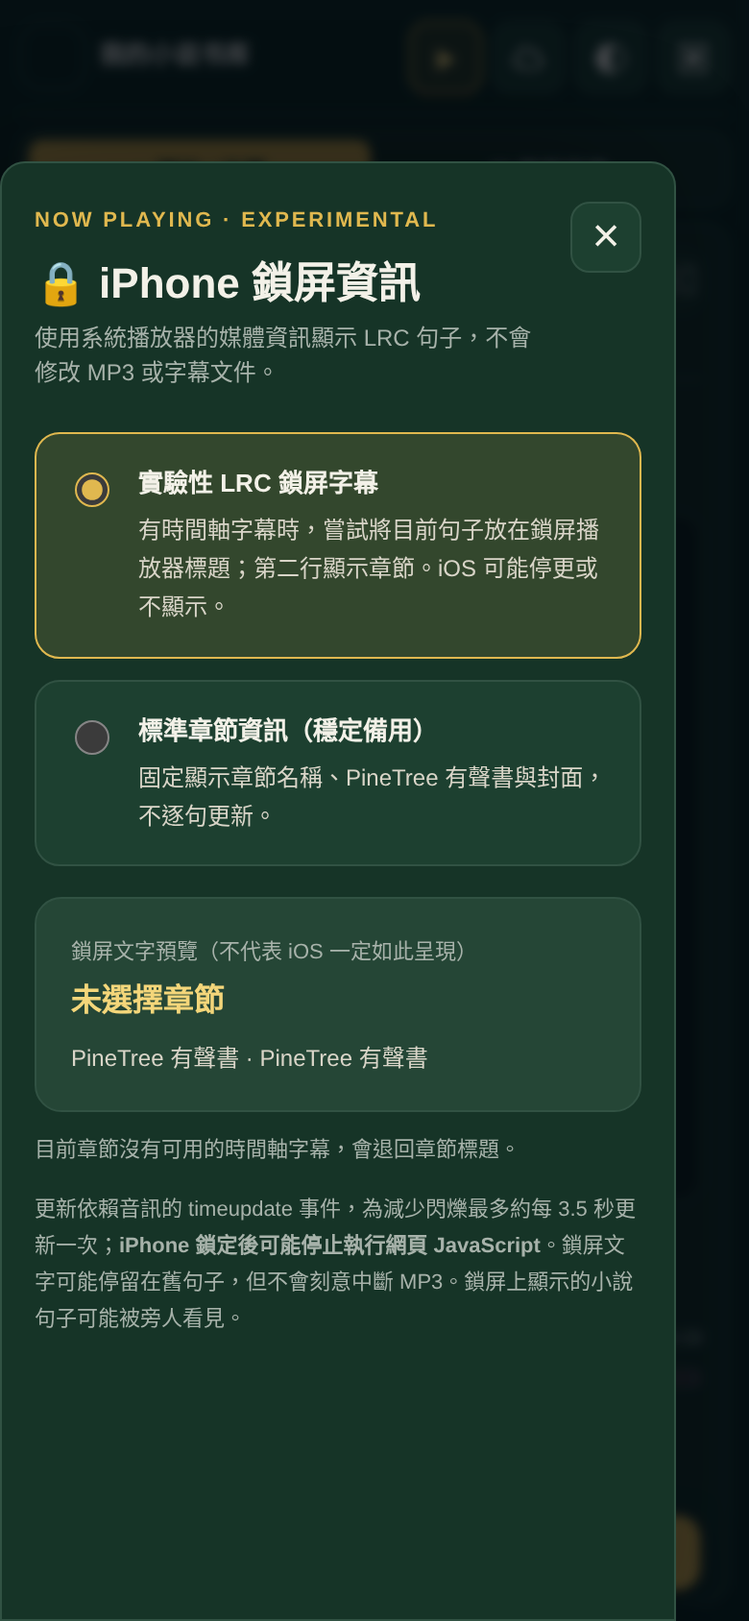
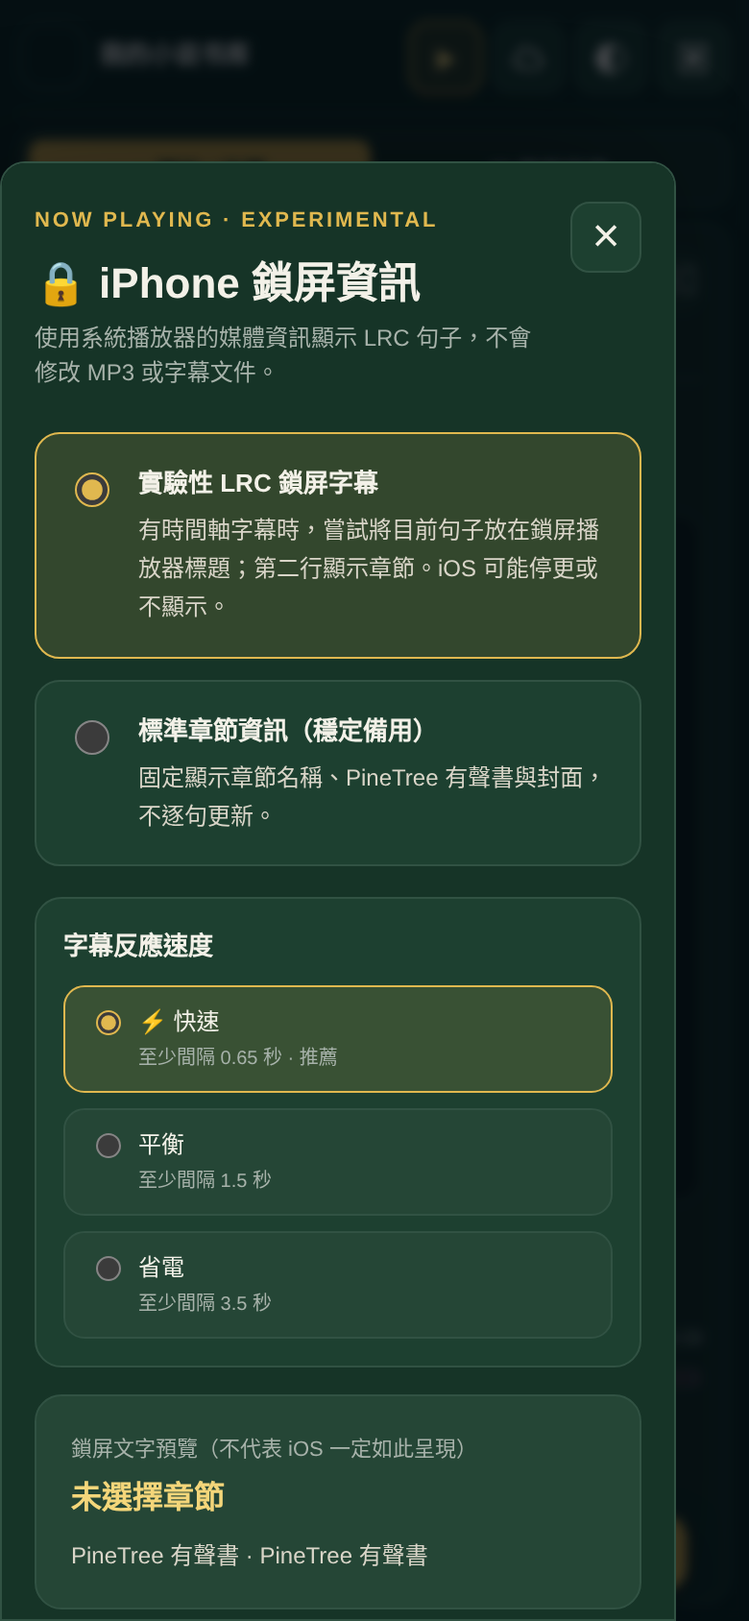
Add files via upload

diff --git a/app.js b/app.js
@@ -1,4 +1,4 @@
-/* PineTree Lyra 3.7 · experimental lock-screen LRC metadata, sleep timer, bookmarks, eye-care themes.
+/* PineTree Lyra 3.7.2 · centered lyrics follow mode + faster experimental lock-screen LRC metadata, sleep timer, bookmarks, eye-care themes.
  * Works with imported MP3 + timestamped LRC files only; no server uploads.
  * Keeps Lyra 1.x IndexedDB data by upgrading the SAME database to v2.
  */
@@ -32,8 +32,10 @@ const state = {
   focusMode:localStorage.getItem('pinetree-focus-mode')==='1',
   keepAwake:localStorage.getItem('pinetree-keep-awake')==='1',wakeLock:null,
   lineSpacing:bounded(storedNumber('pinetree-line-spacing',1.85),1.4,2.6,1.85),
+  lyricsCentered:localStorage.getItem('pinetree-lyrics-centered-v372')!=='0',
   sleepDeadline:0,sleepEndChapter:false,sleepInterval:null,cleanupRunning:false,cleanupPreviewToken:0,
   lockScreenMode:localStorage.getItem('pinetree-lockscreen-mode-v37')==='standard'?'standard':'lyrics',
+  lockScreenSpeed:['fast','balanced','quiet'].includes(localStorage.getItem('pinetree-lockscreen-speed-v371'))?localStorage.getItem('pinetree-lockscreen-speed-v371'):'fast',
   lockScreenMetaKey:'',lockScreenLastAt:0,lockScreenLastText:'',lockScreenMediaError:false,
 
 };
@@ -45,7 +47,7 @@ const DELETED_BOOKS_KEY='pinetree-deleted-books-v33';
 const IMPORT_CHECKPOINT_KEY='pinetree-import-checkpoint-v33';
 const SETTINGS_UPDATED_KEY='pinetree-settings-updated-v33';
 const BOOKMARKS_KEY='pinetree-bookmarks-v36';
-const RELEASE_SEEN_KEY='pinetree-release-seen-v37';
+const RELEASE_SEEN_KEY='pinetree-release-seen-v372';
 function readBookmarks(){try{return (JSON.parse(localStorage.getItem(BOOKMARKS_KEY)||'[]')||[]).filter(x=>x&&typeof x.id==='string').slice(0,2000);}catch{return [];}}
 function writeBookmarks(items){try{localStorage.setItem(BOOKMARKS_KEY,JSON.stringify(items.slice(0,2000)));return true;}catch(error){console.warn('書籤儲存失敗',error);toast('書籤儲存失敗：本機空間可能不足');return false;}}
 
@@ -79,6 +81,8 @@ function updateBookBrand(){
   $('brandTitle').title=name;
   document.title=`${name} · PineTree 有聲書`;
 }
+function updateLyricsCenterButton(){const btn=$('lyricsCenterToggle');if(!btn)return;btn.setAttribute('aria-pressed',String(state.lyricsCentered));btn.textContent=state.lyricsCentered?'◎ 置中':'≋ 自由';btn.title=state.lyricsCentered?'播放時自動將當前字幕置中':'目前為自由滾動，不會自動拉回正中央';}
+function setLyricsCentered(value,persist=true){state.lyricsCentered=!!value;updateLyricsCenterButton();if(persist){localStorage.setItem('pinetree-lyrics-centered-v372',state.lyricsCentered?'1':'0');markSettingsChanged();}state.userScrollUntil=0;syncLyricsViewportPadding();requestAnimationFrame(()=>updateLyrics(true));}
 function setLyricsMax(value, persist=true){
   state.lyricsMax=!!value;
   document.body.classList.toggle('lyrics-maximized',state.lyricsMax);
@@ -225,7 +229,7 @@ function closeImportUI(){if(state.importJob?.running)return;closeDialog('importD
 function cancelImport(){const job=state.importJob;if(!job||!job.running)return;job.cancelled=true;$('cancelImport').disabled=true;reportImportStatus(job,'正在安全停止…','完成當前檔案寫入後停止，已成功匯入的章節不會消失。');}
 function importReportText(job){
   return [
-    `PineTree v3.6 匯入報告 · ${new Date().toLocaleString()}`,
+    `PineTree v3.7.2 匯入報告 · ${new Date().toLocaleString()}`,
     `小說：${bookTitle(job.book)} · 狀態：${job.cancelled?'使用者取消':'完成'}`,
     `檔案：${job.fileCount} · 章節組：${job.total}`,
     `新增：${job.added}；更新：${job.updated}；已存在略過：${job.skipped}；缺少 MP3：${job.orphans}；缺少 LRC：${job.missingLrc}；重複：${job.duplicates}；跳過 Read：${job.excludedRead}；失敗：${job.failed}`,
@@ -350,9 +354,10 @@ async function deleteBook(){const book=state.selectedBook;if(!book)return;const 
     toast(`已删除《${displayName}》，其他小说保持不变`);}catch(error){console.error(error);toast('删除失败，请重试');}}
 function parseLRC(source){const entries=[];let offset=0;for(const raw of(source||'').replace(/^\uFEFF/,'').split(/\r?\n/)){const shift=raw.match(/^\s*\[offset\s*:\s*([+-]?\d+)\s*\]/i);if(shift){offset=Number(shift[1])/1000;continue;}const stamps=[...raw.matchAll(/\[(?:(\d+):)?(\d{1,3}):(\d{2})(?:[.:](\d{1,3}))?\]/g)];if(!stamps.length)continue;const words=raw.replace(/\[(?:(\d+):)?(\d{1,3}):(\d{2})(?:[.:](\d{1,3}))?\]/g,'').trim();if(!words)continue;for(const x of stamps){const hours=Number(x[1]||0),mins=Number(x[2]),secs=Number(x[3]);if(secs>=60||(x[1]&&mins>=60))continue;const fraction=Number(`0.${x[4]||'0'}`);entries.push({time:Math.max(0,hours*3600+mins*60+secs+fraction+offset),text:words});}}entries.sort((a,b)=>a.time-b.time);return entries;}
 function displayPlaceholder(title,note){const el=$('lyricsWindow');el.replaceChildren();const box=document.createElement('div');box.className='lyrics-placeholder';const symbol=document.createElement('span');symbol.textContent='“';const p=document.createElement('p');p.textContent=title;const small=document.createElement('small');small.textContent=note;box.append(symbol,p,small);el.append(box);}
-function displayLyrics(lrc){state.lines=parseLRC(lrc);state.lineIndex=-1;const container=$('lyricsWindow');container.replaceChildren();if(!state.lines.length){$('lrcState').textContent='· 无时间轴';displayPlaceholder('还没有同步文字','导入同名 .lrc 文件即可同步显示');return;}$('lrcState').textContent=`· ${state.lines.length} 行`;const frag=document.createDocumentFragment();state.lines.forEach((line,i)=>{const element=document.createElement('div');element.className='lyric-line';element.dataset.index=i;element.textContent=line.text;element.title=`${formatTime(line.time)} · 点击跳转`;frag.append(element);});container.append(frag);container.scrollTop=0;updateLyrics(true);}
+function syncLyricsViewportPadding(){const win=$('lyricsWindow');if(!win)return;const pad=state.lyricsCentered?Math.max(32,Math.round(win.clientHeight*0.34)):24;win.style.setProperty('--lyrics-vertical-pad',pad+'px');}
+function displayLyrics(lrc){state.lines=parseLRC(lrc);state.lineIndex=-1;const container=$('lyricsWindow');container.replaceChildren();if(!state.lines.length){$('lrcState').textContent='· 无时间轴';displayPlaceholder('还没有同步文字','导入同名 .lrc 文件即可同步显示');syncLyricsViewportPadding();return;}$('lrcState').textContent=`· ${state.lines.length} 行`;const frag=document.createDocumentFragment();state.lines.forEach((line,i)=>{const element=document.createElement('div');element.className='lyric-line';element.dataset.index=i;element.textContent=line.text;element.title=`${formatTime(line.time)} · 点击跳转`;frag.append(element);});container.append(frag);syncLyricsViewportPadding();container.scrollTop=0;updateLyrics(true);}
 function lyricIndex(time){let low=0,high=state.lines.length-1,result=-1;while(low<=high){const mid=(low+high)>>1;if(state.lines[mid].time<=time){result=mid;low=mid+1;}else high=mid-1;}return result;}
-function updateLyrics(force=false){if(!state.lines.length)return;const idx=lyricIndex((Number(audio.currentTime)||0)-state.delay);if(idx===state.lineIndex&&!force)return;const lines=$('lyricsWindow').children;if(state.lineIndex>=0&&lines[state.lineIndex])lines[state.lineIndex].classList.remove('active');state.lineIndex=idx;if(idx>=0&&lines[idx]){const el=lines[idx];el.classList.add('active');if(Date.now()>=state.userScrollUntil){const win=$('lyricsWindow');win.scrollTo({top:Math.max(0,el.offsetTop-win.offsetTop-win.clientHeight*.42),behavior:force?'instant':'smooth'});}}}
+function updateLyrics(force=false){if(!state.lines.length)return;const idx=lyricIndex((Number(audio.currentTime)||0)-state.delay);if(idx===state.lineIndex&&!force)return;const lines=$('lyricsWindow').querySelectorAll('.lyric-line');if(state.lineIndex>=0&&lines[state.lineIndex])lines[state.lineIndex].classList.remove('active');state.lineIndex=idx;if(idx>=0&&lines[idx]){const el=lines[idx];el.classList.add('active');if(Date.now()>=state.userScrollUntil){const win=$('lyricsWindow');if(state.lyricsCentered){const centerTop=Math.max(0,el.offsetTop-win.offsetTop-(win.clientHeight-el.offsetHeight)/2);win.scrollTo({top:centerTop,behavior:force?'instant':'smooth'});}else{win.scrollTo({top:Math.max(0,el.offsetTop-win.offsetTop-win.clientHeight*.42),behavior:force?'instant':'smooth'});}}}}
 async function saveProgress(ended=false){if(!state.db||!state.current||state.suppressProgressWrites||!state.fileUrl||audio.readyState<1||!Number.isFinite(audio.duration)||audio.duration<=0)return;const id=state.current.id;const done=ended||audio.ended;const record={id,position:done?(Number(audio.duration)||0):(Number(audio.currentTime)||0),ended:done,updatedAt:Date.now()};state.progresses.set(id,record);try{await putStore('progress',record);}catch(error){console.warn('进度保存失败：',error);}}
 function releaseAudio(){audio.pause();audio.removeAttribute('src');audio.load();if(state.fileUrl)URL.revokeObjectURL(state.fileUrl);state.fileUrl=null;}
 function updateStoryArt(){const cover=$('currentCover'),fallback=$('storyArtFallback');const book=getBook(state.current?.book||state.selectedBook);const title=book?bookTitle(book.id):'选择一本小说';$('storyBookName').textContent=title;$('storyBookName').title=title;$('storyBookName').classList.toggle('long-title',title.length>15);const url=coverUrl(book);if(url){cover.src=url;cover.hidden=false;fallback.hidden=true;}else{cover.hidden=true;cover.removeAttribute('src');fallback.hidden=false;}}
@@ -360,7 +365,10 @@ function updateStoryArt(){const cover=$('currentCover'),fallback=$('storyArtFall
 // iOS may throttle/suspend background JavaScript, timeupdate and metadata rendering.
 // No background polling: react only to actual audio events, and throttle metadata changes.
 const LOCKSCREEN_MODE_KEY='pinetree-lockscreen-mode-v37';
-const LOCKSCREEN_MIN_INTERVAL_MS=3500;
+// Only update when the LRC sentence actually changes; speed caps bursts of
+// exceptionally short lines. iOS controls final lock-screen paint latency.
+const LOCKSCREEN_SPEED_KEY='pinetree-lockscreen-speed-v371';
+const LOCKSCREEN_INTERVALS=Object.freeze({fast:650,balanced:1500,quiet:3500});
 function safeLyricTitle(text){
   // Prevent very long/wrapped metadata and control characters in the lock screen.
   return Array.from(String(text||'').replace(/[\u0000-\u001F\u007F]+/g,' ').replace(/\s+/g,' ').trim()).slice(0,64).join('');
@@ -394,6 +402,7 @@ function refreshLockScreenControls(){
       ?info.active?'目前有字幕可嘗試顯示；鎖屏後是否逐句更新取決於 iOS。':'目前章節沒有可用的時間軸字幕，會退回章節標題。'
       :'目前使用標準模式：顯示章節標題與 PineTree 名稱。';
   for(const input of document.querySelectorAll('input[name="lockScreenMode"]'))input.checked=input.value===state.lockScreenMode;
+  for(const input of document.querySelectorAll('input[name="lockScreenSpeed"]'))input.checked=input.value===state.lockScreenSpeed;
 }
 function setLockScreenMode(mode,{persist=true}={}){
   if(mode!=='standard'&&mode!=='lyrics')return;
@@ -405,13 +414,22 @@ function setLockScreenMode(mode,{persist=true}={}){
   refreshLockScreenControls();
   updateMediaSession(true);
 }
+function setLockScreenSpeed(speed,{persist=true}={}){
+  if(!Object.prototype.hasOwnProperty.call(LOCKSCREEN_INTERVALS,speed))return;
+  state.lockScreenSpeed=speed;
+  if(persist){localStorage.setItem(LOCKSCREEN_SPEED_KEY,speed);markSettingsChanged();}
+  refreshLockScreenControls();
+  // Do not force re-draw the same line, but allow the next changed line promptly.
+  state.lockScreenLastAt=0;
+  updateMediaSession();
+}
 function updateMediaSession(force=false){
   if(!state.current||!('mediaSession' in navigator)||typeof MediaMetadata!=='function'||state.lockScreenMediaError)return;
   const info=lockScreenInfo();
   if(info.key===state.lockScreenMetaKey&&!force)return;
   const now=Date.now();
   // A metadata change can make iOS redraw Now Playing; avoid flashing every few hundred ms.
-  if(!force && state.lockScreenMetaKey && now-state.lockScreenLastAt<LOCKSCREEN_MIN_INTERVAL_MS)return;
+  if(!force && state.lockScreenMetaKey && now-state.lockScreenLastAt<LOCKSCREEN_INTERVALS[state.lockScreenSpeed])return;
   const book=getBook(state.current.book),url=coverUrl(book);
   try{
     navigator.mediaSession.metadata=new MediaMetadata({
@@ -572,7 +590,7 @@ async function makeSyncSnapshot(){
     selectedBook:state.selectedBook||'',
     settings:{speed:state.speed,fontSize:state.fontSize,delay:state.delay,
       bg:state.bgColor,panel:state.panelColor,accent:state.accentColor,
-      linked:state.panelLinked,lyricsMax:state.lyricsMax,focusMode:state.focusMode,lineSpacing:state.lineSpacing,keepAwake:state.keepAwake,lockScreenMode:state.lockScreenMode},
+      linked:state.panelLinked,lyricsMax:state.lyricsMax,lyricsCentered:state.lyricsCentered,focusMode:state.focusMode,lineSpacing:state.lineSpacing,keepAwake:state.keepAwake,lockScreenMode:state.lockScreenMode,lockScreenSpeed:state.lockScreenSpeed},
     note:'僅書庫名稱、封面、播放進度及介面設定；不包含 MP3/LRC 音訊檔',
     skippedLargeCovers:skipped};
 }
@@ -668,10 +686,12 @@ async function importICloudState(file){
         if(Number.isFinite(Number(cfg.delay))){state.delay=bounded(Number(cfg.delay),-20,20,0);localStorage.setItem('lyra-delay',state.delay);$('offsetLabel').textContent=`${state.delay>0?'+':''}${state.delay.toFixed(1)}s`;}
         if([cfg.bg,cfg.panel,cfg.accent].every(isHex))setTheme(cfg.bg,cfg.panel,cfg.accent,{linked:!!cfg.linked});
         if(typeof cfg.lyricsMax==='boolean')setLyricsMax(cfg.lyricsMax,false);
+        if(typeof cfg.lyricsCentered==='boolean')setLyricsCentered(cfg.lyricsCentered,false);
         if(Number.isFinite(Number(cfg.lineSpacing)))setLineSpacing(cfg.lineSpacing,false);
         if(typeof cfg.focusMode==='boolean')setFocusMode(cfg.focusMode,false);
         if(typeof cfg.keepAwake==='boolean')setKeepAwake(cfg.keepAwake,false);
         if(cfg.lockScreenMode==='standard'||cfg.lockScreenMode==='lyrics')setLockScreenMode(cfg.lockScreenMode,{persist:false});
+        if(['fast','balanced','quiet'].includes(cfg.lockScreenSpeed))setLockScreenSpeed(cfg.lockScreenSpeed,{persist:false});
         if(snapshot.settingsUpdatedAt)localStorage.setItem(SETTINGS_UPDATED_KEY,String(snapshot.settingsUpdatedAt));
       }
       const prefer=typeof snapshot.selectedBook==='string'&&snapshot.books.some(b=>b.id===snapshot.selectedBook)?snapshot.selectedBook:state.selectedBook;
@@ -696,7 +716,7 @@ async function importICloudState(file){
 
 
 // ------------------------------
-// PineTree v3.6: calm listening and local storage tools.
+// PineTree v3.7.2: calm listening, centered lyrics and local storage tools.
 // Offline data remains under the same IndexedDB name; do not clear on upgrades.
 // ------------------------------
 function setLineSpacing(value,mark=true){
@@ -868,6 +888,7 @@ function setupEvents(){
   $('lockScreenOpen').addEventListener('click',()=>{refreshLockScreenControls();openDialog('lockScreenDialog');});
   $('lockScreenClose').addEventListener('click',()=>closeDialog('lockScreenDialog'));
   for(const input of document.querySelectorAll('input[name="lockScreenMode"]'))input.addEventListener('change',event=>setLockScreenMode(event.target.value));
+  for(const input of document.querySelectorAll('input[name="lockScreenSpeed"]'))input.addEventListener('change',event=>setLockScreenSpeed(event.target.value));
   $('sleepClose').addEventListener('click',()=>closeDialog('sleepDialog'));
   for(const b of document.querySelectorAll('[data-sleep]'))b.addEventListener('click',()=>chooseSleepTimer(b.dataset.sleep));
   $('bookmarkAdd').addEventListener('click',addBookmark);
@@ -909,6 +930,7 @@ function setupEvents(){
   $('downloadImportReport').addEventListener('click',downloadImportReport);
   $('coverBtn').addEventListener('click',()=>$('coverPicker').click());
   $('renameBookBtn').addEventListener('click',renameBook);
+  $('lyricsCenterToggle').addEventListener('click',()=>setLyricsCentered(!state.lyricsCentered));
   $('toggleLyricsMax').addEventListener('click',()=>setLyricsMax(!state.lyricsMax));
   document.addEventListener('keydown',event=>{if(event.key==='Escape'&&state.lyricsMax)setLyricsMax(false);});
   $('importDialog').addEventListener('cancel',event=>{if(state.importJob?.running){event.preventDefault();cancelImport();}});
@@ -942,14 +964,15 @@ function setupEvents(){
   audio.addEventListener('ended',async()=>{if(!state.current)return;await saveProgress(true);if(state.sleepEndChapter){stopSleepTimer('本章播放完成，睡眠定時已停止');return;}const list=sortedBookTracks(state.current.book);const i=list.findIndex(x=>x.id===state.current.id);if(i>=0&&i<list.length-1)await loadTrack(list[i+1],{autoplay:true});else{$('playStatus').textContent='本书已播放完毕';drawChapterList();}});
   audio.addEventListener('error',()=>{if(state.current&&audio.src){$('playStatus').textContent='音频无法播放';toast('MP3 无法播放，请确认音频格式有效');}});
   window.addEventListener('online',updateNetwork);window.addEventListener('offline',updateNetwork);
-  document.addEventListener('visibilitychange',()=>{if(document.hidden){updateMediaSession(true);saveProgress();releaseWakeLock();}else{checkSleepTimer();requestWakeLock();updateMediaSession();refreshLockScreenControls();}});window.addEventListener('pagehide',()=>saveProgress());
+  document.addEventListener('visibilitychange',()=>{if(document.hidden){updateMediaSession(true);saveProgress();releaseWakeLock();}else{checkSleepTimer();requestWakeLock();updateMediaSession();refreshLockScreenControls();syncLyricsViewportPadding();updateLyrics(true);}});window.addEventListener('pagehide',()=>saveProgress());
+  window.addEventListener('resize',()=>{syncLyricsViewportPadding();updateLyrics(true);});
 }
 
 async function registerSW(){if(!('serviceWorker'in navigator)||!isSecureContext)return;try{navigator.serviceWorker.addEventListener('controllerchange',()=>toast('PineTree 版本已更新；關閉再開啟 App 可使用最新版',5000));await navigator.serviceWorker.register('./sw.js',{scope:'./'});}catch(error){console.warn('离线缓存不可用：',error);}}
 async function start(){
   setupEvents();setupMediaSession();updateNetwork();
   setMobileTab(localStorage.getItem('lyra-mobile-tab')==='chapters'?'chapters':'player');
-  setLineSpacing(state.lineSpacing,false);setKeepAwake(state.keepAwake,false);setFocusMode(state.focusMode,false);updateSleepUI();
+  setLineSpacing(state.lineSpacing,false);setKeepAwake(state.keepAwake,false);setFocusMode(state.focusMode,false);setLyricsCentered(state.lyricsCentered,false);updateSleepUI();
   setSpeed(state.speed);
   setLockScreenMode(state.lockScreenMode,{persist:false});
   migrateForestThemeOnce();
@@ -964,7 +987,7 @@ async function start(){
   registerSW();
   try{
     state.db=await openDatabase();await migrateLegacyBooks();await refreshLibrary();
-    if(localStorage.getItem(RELEASE_SEEN_KEY)!=='1'){toast('PineTree 已更新至 v3.7 · 實驗性鎖屏字幕可在播放區設定',6500);localStorage.setItem(RELEASE_SEEN_KEY,'1');}
+    if(localStorage.getItem(RELEASE_SEEN_KEY)!=='1'){toast('PineTree 已更新至 v3.7.2 · 播放字幕自動置中已加入',6500);localStorage.setItem(RELEASE_SEEN_KEY,'1');}
     const interrupted=localStorage.getItem(IMPORT_CHECKPOINT_KEY);
     if(interrupted){try{const p=JSON.parse(interrupted);toast(`上次匯入可能中斷（${p.done||0}/${p.total||'?'} 組）；重新選相同文件可接續並略過已有章節`,8000);}catch{}localStorage.removeItem(IMPORT_CHECKPOINT_KEY);}
     const last=state.tracks.find(x=>x.id===localStorage.getItem('lyra-last-id'));

diff --git a/styles.css b/styles.css
@@ -29,7 +29,7 @@ button,select,input[type=search],input[type=text]{-webkit-tap-highlight-color:tr
 .reader{display:flex;flex-direction:column;padding:20px clamp(16px,2.2vw,35px) 17px;gap:0}
 .now-playing{display:flex;justify-content:space-between;align-items:flex-start;gap:16px;flex:0 0 auto;padding-bottom:13px}.now-playing-text{min-width:0;flex:1}.now-kicker{font-size:11px;display:flex;align-items:center;gap:8px;color:var(--accent);font-weight:750;letter-spacing:.02em}.now-kicker>span:last-child{overflow:hidden;white-space:nowrap;text-overflow:ellipsis}.now-playing h1{margin:7px 0 6px;font-size:clamp(17px,1.55vw,23px);line-height:1.3;overflow-wrap:anywhere}.now-playing p{margin:0;font-size:11px;color:var(--muted)}.now-playing-actions{display:flex;gap:8px;align-items:flex-start;flex:0 0 auto}.story-art{width:62px;height:71px;border-radius:9px;overflow:hidden;background:var(--panel-alt);display:grid;place-items:center;border:1px solid var(--border);position:relative}.story-art img{width:100%;height:100%;object-fit:cover}.story-fallback{display:grid;place-items:center;position:absolute;inset:0;padding:4px}.story-fallback span{font-size:12px;word-break:break-all;line-height:1.28;color:var(--accent);font-weight:800;max-height:90%;overflow:hidden;text-align:center}.story-fallback[hidden],.story-art img[hidden]{display:none!important}.tiny-action{min-height:32px;min-width:32px;padding:6px 9px;font-size:12px;white-space:nowrap}.now-playing-actions .tiny-action{width:33px;height:33px;font-size:19px;padding:0}.mobile-only{display:none}
 .lyrics-toolbar{display:flex;align-items:center;justify-content:space-between;gap:10px;flex-wrap:wrap;border-top:1px solid var(--border);padding-top:12px;margin-bottom:10px;flex:0 0 auto}.lyrics-heading{display:flex;align-items:center;gap:6px;font-size:13px}.lyrics-heading small{font-size:11px;color:var(--muted);font-weight:400}.lyrics-tools{display:flex;align-items:center;gap:5px}.offset-label{display:inline-block;min-width:36px;text-align:center;color:var(--accent);font-size:11px}.full-lyrics{border-color:var(--accent);color:var(--accent);font-weight:750;padding:7px 11px}
-.lyrics-window{flex:1;min-height:0;overflow:auto;overscroll-behavior:contain;position:relative;background:var(--lyric-surface);border:1px solid var(--border);border-radius:13px;padding:24px clamp(10px,4vw,50px);scrollbar-width:thin;scrollbar-color:var(--border) transparent}.lyric-line{font-size:var(--font-size);color:var(--lyric-inactive);line-height:1.85;padding:12px 3px;cursor:pointer;text-align:center;overflow-wrap:anywhere;transition:color .16s,background .16s;border-radius:9px}.lyric-line.active{color:var(--lyric-active);font-weight:750;background:linear-gradient(90deg,transparent,var(--accent-faint) 45%,transparent);text-shadow:none}.lyrics-placeholder{min-height:100%;display:flex;align-items:center;justify-content:center;flex-direction:column;text-align:center;gap:8px;color:var(--muted)}.lyrics-placeholder>span{font-family:Georgia,serif;font-size:52px;color:var(--accent);height:45px}.lyrics-placeholder p{margin:8px 0 0;font-size:16px}.lyrics-placeholder small{font-size:11px}
+.lyrics-window{flex:1;min-height:0;overflow:auto;overscroll-behavior:contain;position:relative;background:var(--lyric-surface);border:1px solid var(--border);border-radius:13px;padding:var(--lyrics-vertical-pad,24px) clamp(10px,4vw,50px);scrollbar-width:thin;scrollbar-color:var(--border) transparent;scroll-behavior:smooth}.lyric-line{font-size:var(--font-size);color:var(--lyric-inactive);line-height:1.85;padding:12px 3px;cursor:pointer;text-align:center;overflow-wrap:anywhere;transition:color .16s,background .16s;border-radius:9px}.lyric-line.active{color:var(--lyric-active);font-weight:750;background:linear-gradient(90deg,transparent,var(--accent-faint) 45%,transparent);text-shadow:none;scroll-margin-block:42dvh}.lyrics-placeholder{min-height:100%;display:flex;align-items:center;justify-content:center;flex-direction:column;text-align:center;gap:8px;color:var(--muted)}.lyrics-placeholder>span{font-family:Georgia,serif;font-size:52px;color:var(--accent);height:45px}.lyrics-placeholder p{margin:8px 0 0;font-size:16px}.lyrics-placeholder small{font-size:11px}
 .player-bottom{padding-top:12px;flex:0 0 auto}.time-line{display:flex;justify-content:space-between;align-items:center;gap:8px;font-size:11px;color:var(--muted);font-variant-numeric:tabular-nums}.time-line>span{font-size:11px;color:var(--soft)}.seek-bar{width:100%;accent-color:var(--accent);margin:4px 0;height:17px}.playbar{display:flex;align-items:center;justify-content:space-around;gap:18px;padding:5px 0}.transport{display:flex;align-items:center;justify-content:center;gap:clamp(7px,1.35vw,18px);flex:1}.control{border:0;background:transparent;color:var(--text);display:flex;align-items:center;justify-content:center}.control.minor{width:41px;height:41px;position:relative;font-size:24px}.skip-control small{position:absolute;bottom:8px;right:2px;font-size:9px}.control.play{width:57px;height:57px;border-radius:50%;background:var(--accent);color:var(--accent-text);font-size:23px;flex:0 0 57px;box-shadow:0 7px 21px #0002}.speed-settings{flex:0 0 min(220px,28%);min-width:135px}.speed-settings label{font-size:11px;color:var(--soft);display:flex;justify-content:space-between;align-items:center;gap:8px;font-weight:650}.speed-settings output{font-weight:800;color:var(--accent)}.speed-settings input{width:100%;margin:8px 0 1px;accent-color:var(--accent)}.speed-ends{display:flex;justify-content:space-between;font-size:10px;color:var(--muted)}.storage-hint{text-align:center;font-size:10px;color:var(--muted);margin-top:8px}.mobile-switch{display:none}
 /* Dialogs: editing tools are hidden until needed, preserving chapter-list height. */
 .drawer-dialog{position:fixed;inset:0 0 0 auto;width:min(470px,100%);height:100dvh;max-height:100dvh;margin:0;padding:0;border:0;border-left:1px solid var(--border);border-radius:16px 0 0 16px;background:var(--panel);color:var(--text);box-shadow:-18px 0 70px #0005;overflow:auto}.drawer-dialog::backdrop{background:#02060eb8;backdrop-filter:blur(3px)}.dialog-inner{padding:25px 21px 40px}.dialog-head{display:flex;align-items:start;justify-content:space-between;gap:14px;margin-bottom:22px}.dialog-head h2{font-size:22px;margin:6px 0}.dialog-head p{font-size:12px;color:var(--muted);line-height:1.5;margin:0}.dialog-kicker{font-size:11px;font-weight:850;letter-spacing:.13em;color:var(--accent)}.close-action{width:37px;height:37px;flex:0 0 37px;font-size:25px}.create-book label{display:block;font-size:12px;font-weight:700;margin-bottom:8px}.form-row{display:flex;gap:8px}.field{background:var(--field);border:1px solid var(--border);padding:10px 12px;border-radius:9px;min-width:0;width:100%;font-size:13px;color:var(--text)}.manager-section-head{display:flex;justify-content:space-between;align-items:center;margin-top:27px;margin-bottom:11px;font-size:13px}.counter{font-size:11px;color:var(--muted)}.book-grid{display:grid;grid-template-columns:repeat(3,minmax(0,1fr));gap:10px;max-height:335px;overflow:auto;scrollbar-width:thin}.book-tile{background:var(--panel-alt);color:var(--text);border:1px solid var(--border);border-radius:12px;padding:9px;min-width:0;text-align:left;display:flex;flex-direction:column;gap:5px}.book-tile.active{border-color:var(--accent);box-shadow:inset 0 0 0 1px var(--accent)}.cover-thumb{height:96px;width:100%;display:grid;place-items:center;border-radius:8px;background:var(--field);color:var(--accent);font-size:25px;overflow:hidden}.cover-thumb img{width:100%;height:100%;object-fit:cover}.tile-name{font-size:11px;font-weight:750;overflow:hidden;text-overflow:ellipsis;white-space:nowrap;max-width:100%}.tile-count{font-size:10px;color:var(--muted)}.book-grid-empty{grid-column:1/-1;padding:20px;text-align:center;background:var(--panel-alt);border:1px dashed var(--border);color:var(--muted);border-radius:10px;font-size:12px}.book-detail{margin-top:20px;padding:15px;border:1px solid var(--border);border-radius:12px;background:var(--panel-alt)}.book-title-row{display:flex;align-items:center;gap:12px;justify-content:space-between;margin-bottom:13px}.selected-book{min-width:0}.selected-book small{font-size:10px;color:var(--muted);display:block}.selected-book b{font-size:13px;display:block;margin-top:4px;word-break:break-all}.manager-action-grid{display:grid;grid-template-columns:1fr 1fr;gap:9px}.dialog-note{font-size:11px;color:var(--muted);line-height:1.75;margin-bottom:0}.dialog-note code{color:var(--accent)}
@@ -129,3 +129,17 @@ button{transition:background-color .16s,border-color .16s,color .16s}
 .lockscreen-preview strong{font-size:16px;color:var(--lyric-active);line-height:1.5;overflow-wrap:anywhere}
 .lockscreen-preview span{font-size:12px;color:var(--soft);line-height:1.5;overflow-wrap:anywhere}
 @media(max-width:540px){#lockScreenOpen{font-size:10px;padding:5px 9px}}
+
+/* v3.7.1 – low-latency lock-screen caption mode selector */
+.lockscreen-speed{border:1px solid var(--border);border-radius:14px;padding:14px;margin:14px 0;background:var(--panel-alt)}
+.lockscreen-speed>strong{font-size:13px;color:var(--text);display:block;margin-bottom:12px}
+.lockscreen-speed-options{display:grid;grid-template-columns:repeat(3,minmax(0,1fr));gap:8px}
+.lockscreen-speed-options label{display:flex;gap:6px;align-items:flex-start;padding:10px 7px;cursor:pointer;border:1px solid var(--border);border-radius:11px;background:var(--field);min-width:0}
+.lockscreen-speed-options label:has(input:checked){border-color:var(--accent);background:var(--accent-faint)}
+.lockscreen-speed-options input{accent-color:var(--accent);margin-top:3px;flex-shrink:0}
+.lockscreen-speed-options span{min-width:0;font-size:12px;color:var(--text);line-height:1.5}
+.lockscreen-speed-options small{display:block;font-size:10px;color:var(--muted);margin-top:3px}
+@media(max-width:430px){.lockscreen-speed-options{grid-template-columns:1fr}.lockscreen-speed-options label{padding:9px 11px}}
+
+.tiny-action[aria-pressed="true"]{border-color:var(--accent);color:var(--accent);background:var(--accent-faint)}
+:root{--lyrics-vertical-pad:24px}

diff --git a/index.html b/index.html
@@ -11,15 +11,15 @@
  <link rel="manifest" href="./manifest.webmanifest">
  <link rel="apple-touch-icon" href="./apple-touch-icon.png?v=321">
  <link rel="icon" href="./icon-192.png?v=321">
- <link rel="stylesheet" href="./styles.css?v=370">
- <title>PineTree 有聲書 · v3.7 · 護眼閱讀與智慧書庫</title>
+ <link rel="stylesheet" href="./styles.css?v=372">
+ <title>PineTree 有聲書 · v3.7.2 · 置中字幕與低延遲鎖屏</title>
 </head>
 <body>
 <div class="app-shell">
  <header class="topbar">
   <div class="brand">
    <div class="brand-mark" id="brandMonogram" aria-hidden="true"><img src="./apple-touch-icon.png?v=321" alt=""></div>
-   <div class="brand-copy"><strong id="brandTitle">我的小说书库</strong><span>PineTree v3.7 · 護眼閱讀 · iCloud 手動同步</span></div>
+   <div class="brand-copy"><strong id="brandTitle">我的小说书库</strong><span>PineTree v3.7.2 · 置中字幕 · iCloud 手動同步</span></div>
   </div>
   <nav class="header-actions" aria-label="全局操作">
    <span class="status-chip" id="networkBadge">● 准备就绪</span>
@@ -89,6 +89,7 @@
       <button id="offsetMinus" type="button" class="tiny-action" title="字幕提前半秒">−0.5s</button>
       <span id="offsetLabel" class="offset-label">0.0s</span>
       <button id="offsetPlus" type="button" class="tiny-action" title="字幕延后半秒">+0.5s</button>
+      <button id="lyricsCenterToggle" type="button" class="tiny-action" aria-pressed="true" title="播放時自動將當前字幕置中">◎ 置中</button>
       <button id="toggleLyricsMax" type="button" class="tiny-action full-lyrics" aria-pressed="false" title="字幕最大化">⛶ 最大化</button>
     </div>
    </div>
@@ -135,9 +136,9 @@
 </dialog>
 <dialog id="bookManager" class="drawer-dialog" aria-label="书库管理">
  <div class="dialog-inner">
-  <div class="dialog-head"><div><span class="dialog-kicker">LIBRARY</span><h2>管理我的小说</h2><small class="version-line">PineTree v3.7 · 智慧書庫與護眼版</small><p>新建、切换、改名、换封面，或删除整本小说</p></div><button id="bookManagerClose" class="close-action" type="button" aria-label="关闭">×</button></div>
+  <div class="dialog-head"><div><span class="dialog-kicker">LIBRARY</span><h2>管理我的小说</h2><small class="version-line">PineTree v3.7.2 · 置中字幕與護眼版</small><p>新建、切换、改名、换封面，或删除整本小说</p></div><button id="bookManagerClose" class="close-action" type="button" aria-label="关闭">×</button></div>
   <form class="create-book" id="createBookForm"><label for="newBookName">新建小说文件夹</label><div class="form-row"><input id="newBookName" class="field" maxlength="90" type="text" placeholder="输入书名，例如：拙石衍天" required><button class="btn btn-accent" type="submit">＋ 新建</button></div></form>
-  <div class="manager-icloud-shortcut"><button id="releaseOpen" class="btn btn-quiet" type="button">ⓘ 版本與更新內容 · v3.7</button><button id="cleanupOpen" class="btn btn-quiet" type="button">▦ 清理已聽 MP3 · 釋放空間</button><button id="syncOpenSecondary" class="btn btn-quiet" type="button">☁ iCloud 同步 / 備份</button><small>MP3/LRC 仍在「檔案」App；同步檔包含書架與續聽設定</small></div>
+  <div class="manager-icloud-shortcut"><button id="releaseOpen" class="btn btn-quiet" type="button">ⓘ 版本與更新內容 · v3.7.2</button><button id="cleanupOpen" class="btn btn-quiet" type="button">▦ 清理已聽 MP3 · 釋放空間</button><button id="syncOpenSecondary" class="btn btn-quiet" type="button">☁ iCloud 同步 / 備份</button><small>MP3/LRC 仍在「檔案」App；同步檔包含書架與續聽設定</small></div>
   <div class="manager-section-head"><strong>全部小说</strong><span class="counter" id="bookCount">0 本</span></div>
   <div class="book-grid" id="bookGrid" aria-label="小说封面书架"></div>
   <div class="book-detail" id="bookDetail">
@@ -194,9 +195,17 @@
   <label class="lockscreen-choice"><input type="radio" name="lockScreenMode" value="lyrics" checked><span><strong>實驗性 LRC 鎖屏字幕</strong><small>有時間軸字幕時，嘗試將目前句子放在鎖屏播放器標題；第二行顯示章節。iOS 可能停更或不顯示。</small></span></label>
   <label class="lockscreen-choice"><input type="radio" name="lockScreenMode" value="standard"><span><strong>標準章節資訊（穩定備用）</strong><small>固定顯示章節名稱、PineTree 有聲書與封面，不逐句更新。</small></span></label>
  </div>
+ <div class="lockscreen-speed" role="radiogroup" aria-label="鎖屏字幕更新速度">
+  <strong>字幕反應速度</strong>
+  <div class="lockscreen-speed-options">
+   <label><input type="radio" name="lockScreenSpeed" value="fast" checked><span>⚡ 快速 <small>至少間隔 0.65 秒 · 推薦</small></span></label>
+   <label><input type="radio" name="lockScreenSpeed" value="balanced"><span>平衡 <small>至少間隔 1.5 秒</small></span></label>
+   <label><input type="radio" name="lockScreenSpeed" value="quiet"><span>省電 <small>至少間隔 3.5 秒</small></span></label>
+  </div>
+ </div>
  <div class="lockscreen-preview" aria-label="預覽目前鎖屏資訊"><small>鎖屏文字預覽（不代表 iOS 一定如此呈現）</small><strong id="lockScreenPreviewTitle">尚未選擇章節</strong><span id="lockScreenPreviewArtist">PineTree 有聲書</span></div>
  <p id="lockScreenStatus" class="dialog-note" role="status">準備鎖屏資訊…</p>
- <p class="dialog-note">更新依賴音訊的 timeupdate 事件，為減少閃爍最多約每 3.5 秒更新一次；<strong>iPhone 鎖定後可能停止執行網頁 JavaScript</strong>。鎖屏文字可能停留在舊句子，但不會刻意中斷 MP3。鎖屏上顯示的小說句子可能被旁人看見。</p>
+ <p class="dialog-note">字幕變換時才嘗試更新媒體資訊；上方數字是最短更新間隔，不代表 iOS 一定在該時間內顯示；<strong>iPhone 鎖定後可能停止執行網頁 JavaScript</strong>。鎖屏文字可能停留在舊句子，但不會刻意中斷 MP3。鎖屏上顯示的小說句子可能被旁人看見。</p>
  </div></dialog>
 <dialog id="sleepDialog" class="drawer-dialog" aria-label="睡眠定時器"><div class="dialog-inner">
  <div class="dialog-head"><div><span class="dialog-kicker">SLEEP TIMER</span><h2>☾ 睡眠定時器</h2><p>睡前聽書更安心。定時器到點將暫停播放並儲存進度。</p></div><button id="sleepClose" class="close-action" type="button" aria-label="關閉">×</button></div>
@@ -211,8 +220,8 @@
  <div class="import-actions"><button id="cleanupPreview" class="btn btn-quiet" type="button">重新計算</button><button id="cleanupRun" class="btn btn-danger" type="button">確認清理已聽 MP3</button></div>
  <p class="dialog-note">如果清理了 MP3，再次播放該章時需重新從 iCloud Drive 匯入對應音訊。清理操作無法在 PineTree 內撤銷。</p>
  </div></dialog>
-<dialog id="releaseDialog" class="drawer-dialog" aria-label="版本更新與說明"><div class="dialog-inner"><div class="dialog-head"><div><span class="dialog-kicker">RELEASE NOTES</span><h2>PineTree v3.7</h2><p>新增可切換的實驗性 LRC 鎖屏資訊模式。</p></div><button id="releaseClose" class="close-action" type="button" aria-label="關閉">×</button></div><div class="sync-guide"><strong>本次更新</strong><p>增量匯入與 MP3/LRC 配對診斷、清理已聽音訊、睡眠定時、書籤、快速續聽、專注閱讀、螢幕常亮選項、九款護眼主題及同步安全改善；v3.7 新增鎖屏 LRC 字幕實驗模式（不保證背景逐句更新），可隨時改回標準章節資訊。</p><p>仍以 iCloud Drive 手動匯入／匯出同步檔；iOS 系統檔案選取器及鎖屏背景播放限制依然存在。</p></div><button id="releaseDismiss" class="btn btn-accent" type="button">知道了</button></div></dialog>
+<dialog id="releaseDialog" class="drawer-dialog" aria-label="版本更新與說明"><div class="dialog-inner"><div class="dialog-head"><div><span class="dialog-kicker">RELEASE NOTES</span><h2>PineTree v3.7.2</h2><p>新增播放時自動置中字幕，改善末段字幕貼近底部被控制區干擾的問題。</p></div><button id="releaseClose" class="close-action" type="button" aria-label="關閉">×</button></div><div class="sync-guide"><strong>本次更新</strong><p>增量匯入與 MP3/LRC 配對診斷、清理已聽音訊、睡眠定時、書籤、快速續聽、專注閱讀、螢幕常亮選項、九款護眼主題及同步安全改善；v3.7.1 新增鎖屏 LRC 字幕實驗模式（不保證背景逐句更新）；v3.7.2 新增播放時自動將當前句置中，並可切換為自由滾動。</p><p>仍以 iCloud Drive 手動匯入／匯出同步檔；iOS 系統檔案選取器及鎖屏背景播放限制依然存在。</p></div><button id="releaseDismiss" class="btn btn-accent" type="button">知道了</button></div></dialog>
 <div id="toast" class="toast" role="status" aria-live="polite"></div>
-<script src="./app.js?v=370" defer></script>
+<script src="./app.js?v=372" defer></script>
 </body>
 </html>

diff --git a/sw.js b/sw.js
@@ -1,6 +1,6 @@
-/* PineTree Lyra v3.7 eye-care, cleanup, timer, bookmarks and safe sync shell cache. Audio/LRC remains in local IndexedDB (unchanged). */
-const CACHE='lyra-shell-v370-lockscreen-20261110';
-const ASSETS=['./','./index.html','./styles.css?v=370','./app.js?v=370','./manifest.webmanifest','./icon-192.png?v=321','./icon-512.png?v=321','./apple-touch-icon.png?v=321'];
+/* PineTree Lyra v3.7.2 centered lyrics, eye-care, cleanup, timer, bookmarks and safe sync shell cache. Audio/LRC remains in local IndexedDB (unchanged). */
+const CACHE='lyra-shell-v372-centered-20261110';
+const ASSETS=['./','./index.html','./styles.css?v=372','./app.js?v=372','./manifest.webmanifest','./icon-192.png?v=321','./icon-512.png?v=321','./apple-touch-icon.png?v=321'];
 self.addEventListener('install',event=>{event.waitUntil(caches.open(CACHE).then(cache=>cache.addAll(ASSETS)).then(()=>self.skipWaiting()));});
 self.addEventListener('activate',event=>{event.waitUntil((async()=>{const keys=await caches.keys();await Promise.all(keys.filter(k=>k.startsWith('lyra-shell-')&&k!==CACHE).map(k=>caches.delete(k)));await self.clients.claim();})());});
 self.addEventListener('fetch',event=>{if(event.request.method!=='GET')return;const url=new URL(event.request.url);if(url.origin!==self.location.origin)return;event.respondWith((async()=>{
